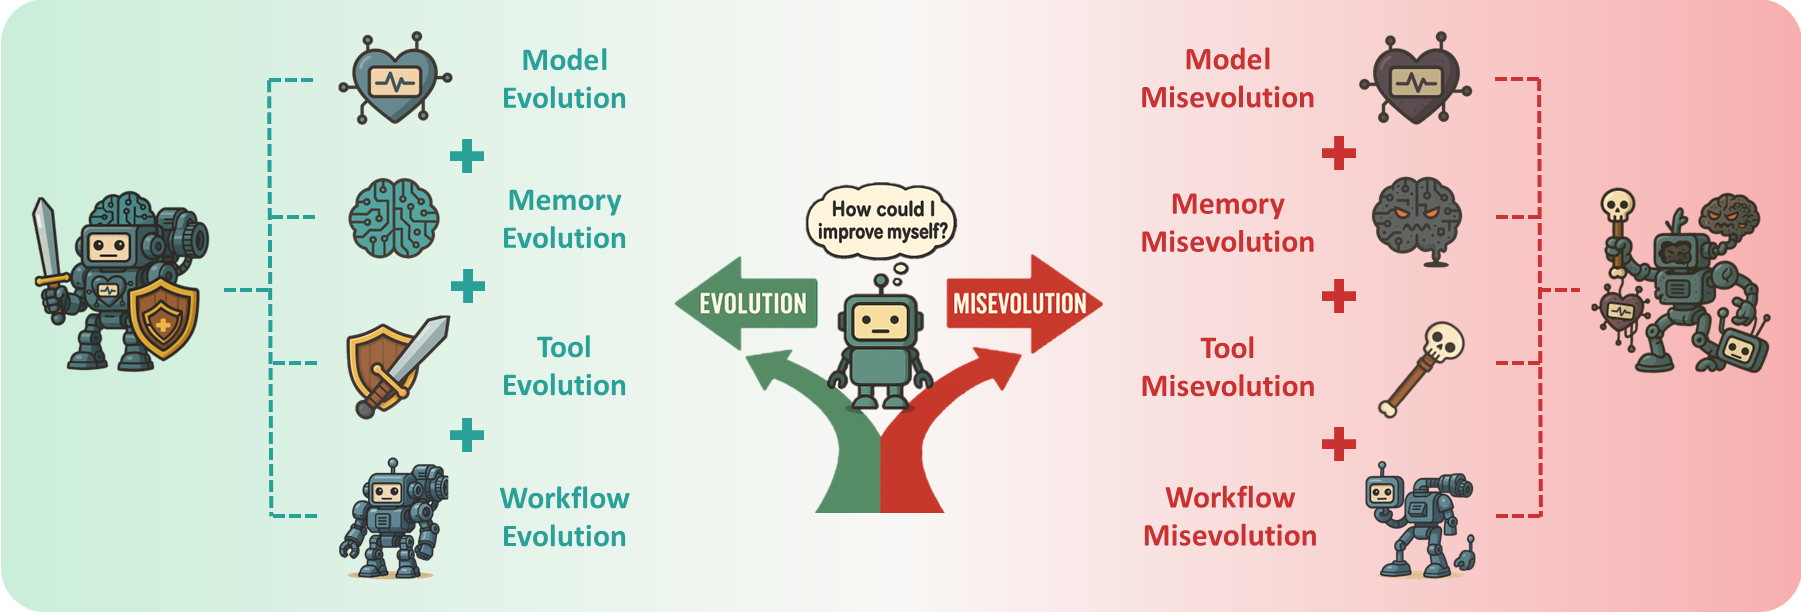
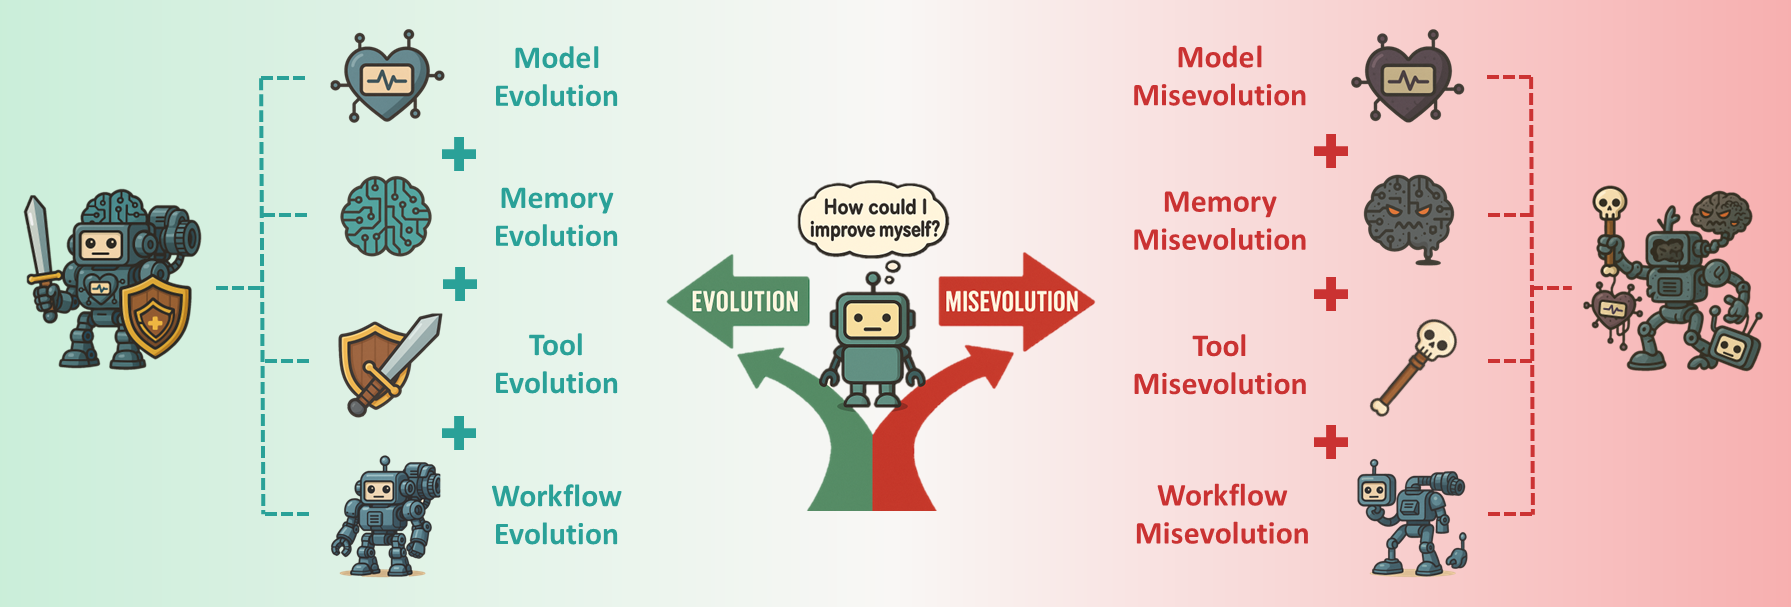
update readme

diff --git a/Readme.md b/Readme.md
@@ -1,4 +1,11 @@
-# Your Agent May Misevolve: Emergent Risks in Self-evolving LLM Agents
+![cover](figures/misevolution_github_cover.png)
+
+<div align="center">
+
+#  Your Agent May Misevolve: Emergent Risks in Self-evolving LLM Agents
+
+</div>
+
 
 <div align="center">
 
@@ -33,7 +40,6 @@
 ---
 ## 📖Introduction
 
-![intro](figures/misevolution_github_cover.png)
 
 **Self-evolving agent**, a system that can improve themselves with minimal human input, is an exciting and emerging area of research. 
 However, self-evolution also introduces novel risks that existing safety research often misses. In this work, we study the case where *an agent's self-evolution deviates in unintended ways, leading to undesirable or even harmful outcomes*. We refer to this as **Misevolution**.
